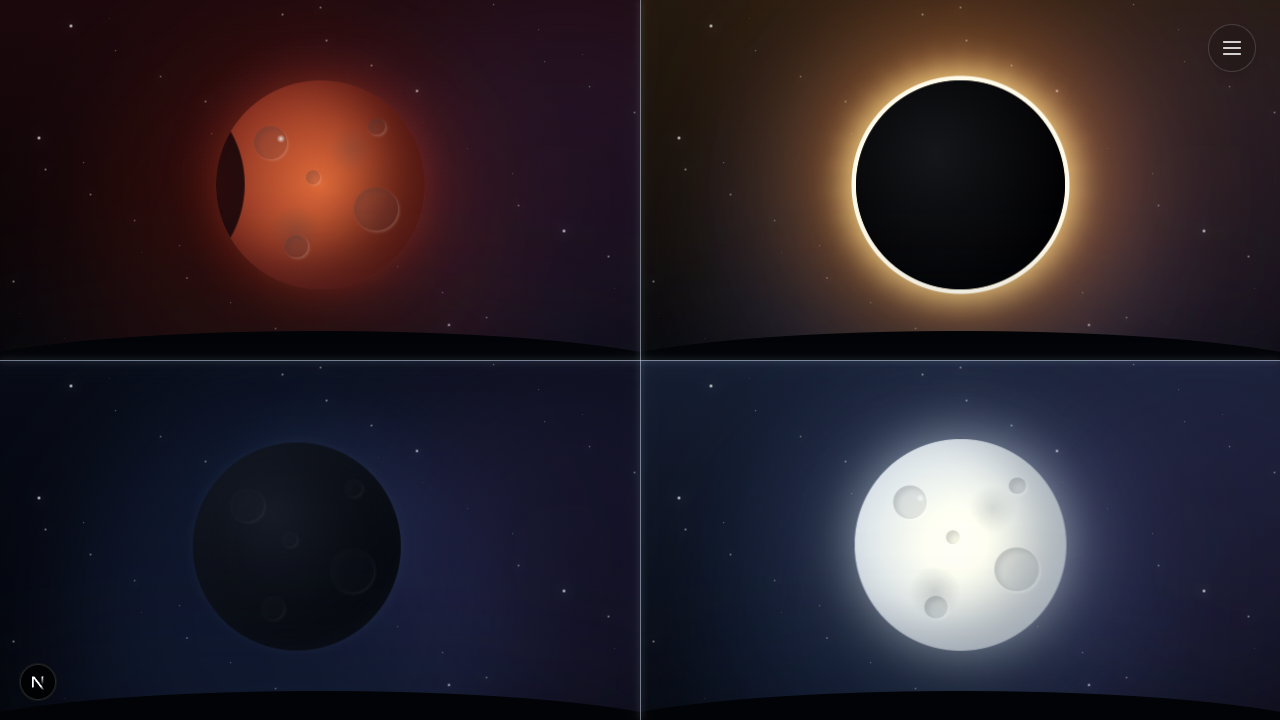
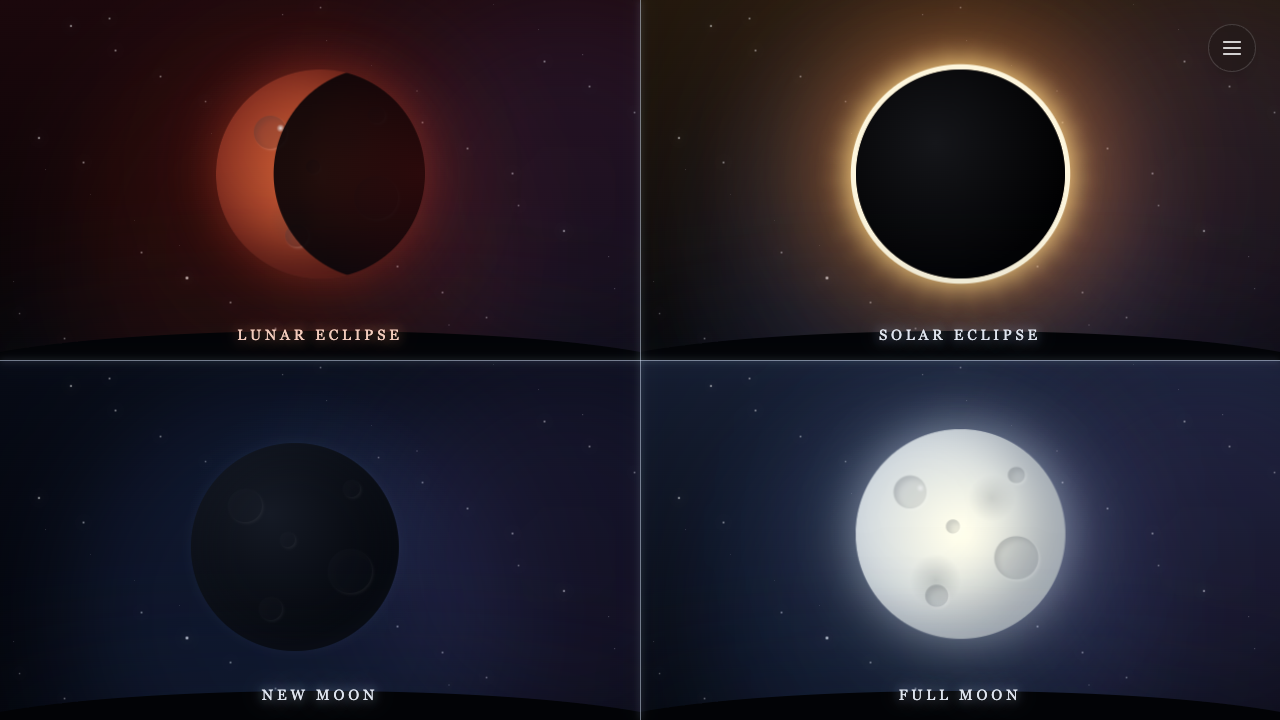
Improve README presentation

diff --git a/README.md b/README.md
@@ -1,3 +1,7 @@
-[View the live website](https://codex-hello-moon.vercel.app)
+# Hello Moon
+
+[https://codex-hello-moon.vercel.app](https://codex-hello-moon.vercel.app)
+
+Explore four moon events through atmospheric, animated scenes. Open each moon to experience its eclipse or lunar phase in motion.
 
 ![Moon phases home page](assets/home-page.png)